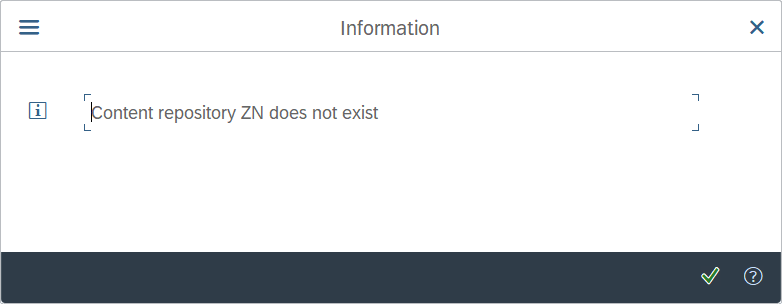
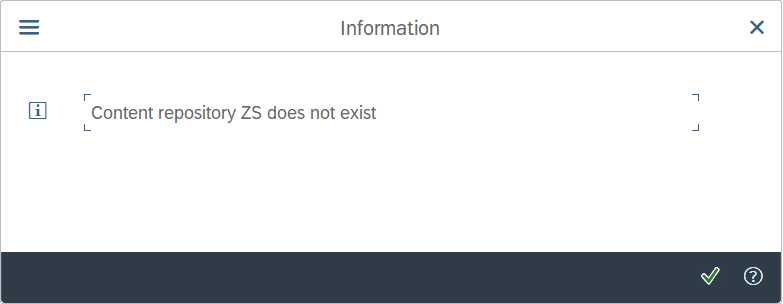
Updated Step-by-step guide for "Connect SAP with Amazon S3"

diff --git a/docs/configuration/storages/s3.md b/docs/configuration/storages/s3.md
@@ -1,5 +1,21 @@
 # Step-by-step: Connect SAP with Amazon S3
-Read this chapter to learn how to connect an Amazon S3 bucket via **`aqilink`** as SAP Content Repository. Make sure you're familiar with the configuration for [SAP Content Repository Connection](/installation/#sap-http-content-server-connection) and [Storage Connection](/configuration/aqishare/#storage-connections) before, as this is a prerequisite.
+Read this chapter to learn how to connect an Amazon S3 Bucket via **`aqilink`** as SAP Content Repository. Make sure you're familiar with the configuration for [SAP Content Repository Connection](/installation/#sap-http-content-server-connection) and [Storage Connection](/configuration/aqishare/#storage-connections) before, as this is a prerequisite.
+
+## Create Amazon S3 Bucket
+
+> OPTIONAL STEP!<br/>If you've already an S3 bucket available, proceed with section [Create SAP Content Repository](#Create-SAP-Content-Repository).
+
+1) Login to the [AWS S3 Console](https://s3.console.aws.amazon.com/) with your credentials.
+2) Click on *Create bucket* to create a new bucket for the SAP documents that should be stored. Specify the related bucket settings according your needs.
+
+   > Remember the *Bucket name* as this must be entered along with some other related AWS connection settings  in the `storage.yaml` configuration file of `aqilink` (refer to [Storage Connections for S3](/configuration/aqilink/#amazon-s3-bucket)).  
+
+   ![S3 Create Bucket](../../_media/sap_customizing/s3/s3_bucket_create.jpg)
+
+3) The bucket has been created.
+
+   ![S3 Bucket Created](../../_media/sap_customizing/s3/s3_bucket_created_success.jpg)
+
 
 ## Create SAP Content Repository
 Follow these steps to create a new SAP Content Repository connected to **`aqilink`**.
@@ -12,14 +28,14 @@ Follow these steps to create a new SAP Content Repository connected to **`aqilin
 
    | Property      | Description | Example |
    | ----------- | ----------- | ----------- | 
-   | **Content Rep.** | Unique name for the repository in SAP.  |  `ZN`, `T1` |
+   | **Content Rep.** | Unique name for the repository in SAP.  |  `ZS` |
    | **Description** | A description to identify the repository easily. Visible only to SAP admin in the SAP Content Repository overview.  |  `Amazon S3 Bucket` |
-   | **Document Area** | Select `ArchiveLink` from the dropdown list to use ArchiveLink and Attachment functionality. Select `Document Management System` to use SAP DMS (Document Info Records).  |  `ArchiveLink`, `DMS` |
+   | **Document Area** | Select `ArchiveLink` from the dropdown list to use ArchiveLink and Attachment functionality. |  `ArchiveLink` |
    | **Storage Type** | Always select `HTTP content server` from the list. |  `HTTP content server` |
    | **Version no.** | Specify the SAP Content Server version. Supported are `0045`, `0046` and `0047` (recommended for all SAP S/4HANA systems) . |  `0047` |
    | **HTTP server** | Specify the server, IP address or hostname, where `aqilink` is running. |  `11.2.0.112` |
    | **Port Number** | Specify the port on the `aqilink` server above where the app is running. Default: `3000`. If necessary change the port mapping based on the used orchestration tool. |  `3000` |
-   | **HTTP Script** | The main entry point of the `aqilink` app. It always starts with the prefix **`sapHttp`** followed by an existing `name` property in the `sapHttp.yaml`. Refer to [SAP Content Repository Connection](/configuration/aqilink/#sap-http-content-server-connection). |  `sapHttp/archivelink-s3` |
+   | **HTTP Script** | The main entry point of the `aqilink` app. It always starts with the prefix **`sapHttp`** followed by an existing `name` property in the `sapHttp.yaml`. Refer to [SAP Content Repository Connection](/configuration/aqilink/#sap-http-content-server-connection). |  `sapHttp/s3-archive` |
    | **Transfer drctry** | Some ArchiveLink scenarios requires files to be created in a transfer directory (on SAP side) before sending it to the content server. Edit this, if the default value does not match your corporate standard. | `/tmp/`|
 
    This is how it looks like in the SAP GUI:
@@ -33,3 +49,69 @@ Follow these steps to create a new SAP Content Repository connected to **`aqilin
    > If you receive any other message than the above one, make sure the connection to the `aqilink` server is working. In case of a message similar like *`Payment required`* make sure to have entered the (valid) [license key](/installation/app-configuration?id=enter-license-key). 
 
 6) The basic HTTP connection is working now.
+
+## Create Content Repository in S3 Bucket
+The repository must be created on the content server as well. 
+
+1) Click on icon *--> CS Admin* (*C*ontent *S*erver *Admin*istration) in the middle of the screen, besides the *Test connection* icon. Refer to image in step 3) of the previous section.
+2) Create the repository in the Amazon S3 Bucket using the *Create repository* icon in the *Create* section (highlighted in `Orange` below). All settings in this screen can be left with their defaults.
+
+   ![SAP Customizing: OAC0 CS Admin Create Repo](../../_media/sap_customizing/s3/0003_oac0_cs_admin_repo.png)
+
+3) You should be redirected to the *Details* section where some basic information from the `aqilink` server shows up.
+   
+   ![SAP Customizing: OAC0 CS Admin Repo created](../../_media/sap_customizing/s3/0004_oac0_cs_admin_repo_created.png)
+
+4) Stay in this screen and continue with the next section.
+
+## Secure Connection using Certificate
+Secure the connection between SAP and the Amazon S3 Bucket using a certificate that will be stored in the Bucket to allow only authorized requests from the SAP Content Repository.
+
+> We strongly recommend securing the connection between SAP and Amazon S3 Buckets at all times.
+
+1) Click on section *Certificates*.
+2) Send the certificate by clicking on the envelope icon.
+   
+   ![SAP Customizing: OAC0 CS Admin Certificate](../../_media/sap_customizing/s3/0005_oac0_cs_admin_certificate.png)
+
+3) Once the certificate was sent, it appears in the *Certificate Properties* table. 
+   **Note the state of the checkbox!** It is not checked, which means the certificate is not yet active.
+
+   ![SAP Customizing: OAC0 CS Admin Certificate Sent](../../_media/sap_customizing/s3/0005_oac0_cs_admin_certificate_available.png)
+
+4) Enable security by activating the certificate in the the Amazon S3 Bucket.
+
+   > From the SAP HTTP-Content Server protocol specification, the certificate can only be activated from the content repository side. This is an additional security step. Therefore, no additional action is required in SAP. To proceed with the activation, login to Amazon S3.
+
+   4.1 Login to your AWS Account navigate to S3 and view the available Bucket list. 
+      
+      > The name of the desired bucket must match the value for `bucket`, specified in the `storage.yaml` (refer to [Storage Connections for Amazon S3](/configuration/aqilink/#amazon-s3-bucket)) 
+
+      ![S3 Bucket List](../../_media/sap_customizing/s3/s3_bucket_overview.jpg)
+
+   4.2 Open the desired bucket where a new folder *Repository* is available. Enter this folder.
+
+      ![S3 Bucket Repository Folder](../../_media/sap_customizing/s3/s3_bucket_folder_repository_after_sap_create_repo.jpg)
+
+   4.3 Below the *Repository* folder you'll find two files. Both are named with the recently created SAP Content Repository name. While the **`.json`** contains some repository information, the **`.pem`** file is the more important. It represents the certificate, sent from SAP which has to be activated.
+
+   ![S3 Activate Certificate](../../_media/sap_customizing/s3/s3_bucket_folder_repository_both_files.jpg)
+
+   4.4 Edit the metadata of the **`.pem`** file (e.g., select file and choose *Edit metadata* from *Actions* menu). To activate the certificate, the `x-amz-meta-isactive` property must be changed from `false` to **`true`**.  
+   
+   ![S3 Certificate activated false](../../_media/sap_customizing/s3/s3_bucket_folder_repository_file_certificate_details_edit_metadata.jpg)
+
+   4.5 Change the value for `x-amz-meta-isactive` and save the file.
+
+   ![S3 Certificate activated true](../../_media/sap_customizing/s3/s3_bucket_folder_repository_file_certificate_details_edit_metadata_set_active.jpg)
+
+
+
+5) Go back to SAP and navigate to the recently created SAP Content Repository again. Open the *--> CS Admin* again and click on the *Certificates* section.
+   If the SAP GUI with the screen is still open in the background, just click the *Refresh* icon. 
+
+6) Now, the checkbox in front of the certificate in the *Certificate Properties* table is enabled.
+
+   ![SAP Customizing: Certificate active](../../_media/sap_customizing/s3/0009_oac0_certificate_active.png)
+
+7) With that, the SAP Content Repository is successfully connected with the Amazon S3 Bucket. You can proceed with a functional test.
